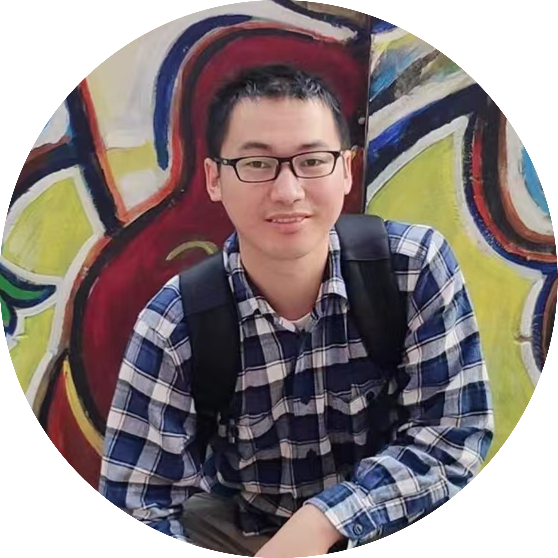
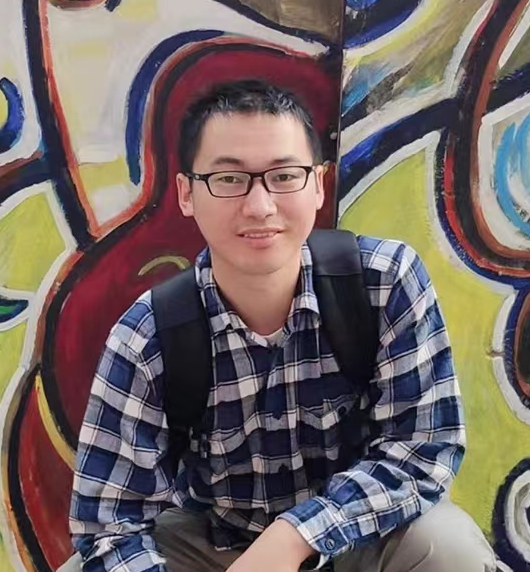
ref

diff --git a/_pages/about.md b/_pages/about.md
@@ -10,20 +10,13 @@ header:
    overlay_filter: 0.1
 ---
 
-![]({{ site.url }}/images/yong_front.jpg)
+![]({{ site.url }}/images/yong_front3.png)
 {: .align-right style="width: 300px"} 
 
 I am currently a PhD student in the [Department of Astronomy](http://vega.bac.pku.edu.cn/) and the [Kavli Institute for 
 Astronomy and Astrophysics](https://kiaa.pku.edu.cn/) at the [Peking University](https://english.pku.edu.cn/). 
 
-Briefly, my research interests are studying and testing general relativity and other theories of gravity from an astrophysical
-standpoint.
 
-I have investigated how “almost-general-relativity” theories can
-affect gravitational observables.  An important observation which
-would be able to distinguish between GR and almost-GR is the
-gravitational waves from two merging black holes, as recently detected
-by advanced LIGO.
 
 Please see my [research]({{ site.url }}/research/) page for more
 details of my research interests. You can also see my
